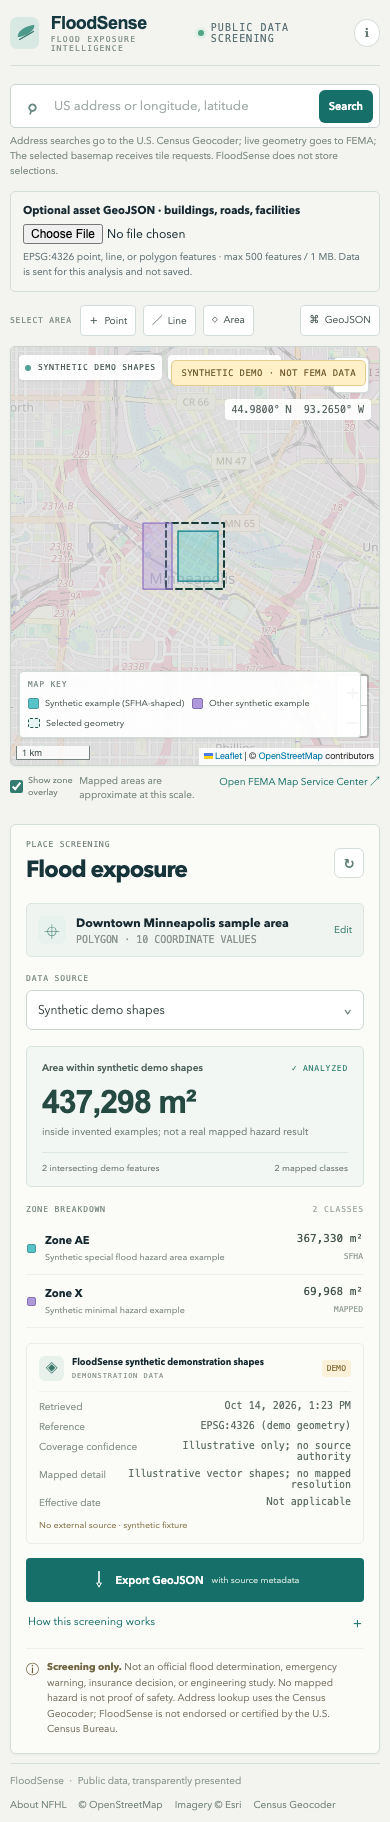
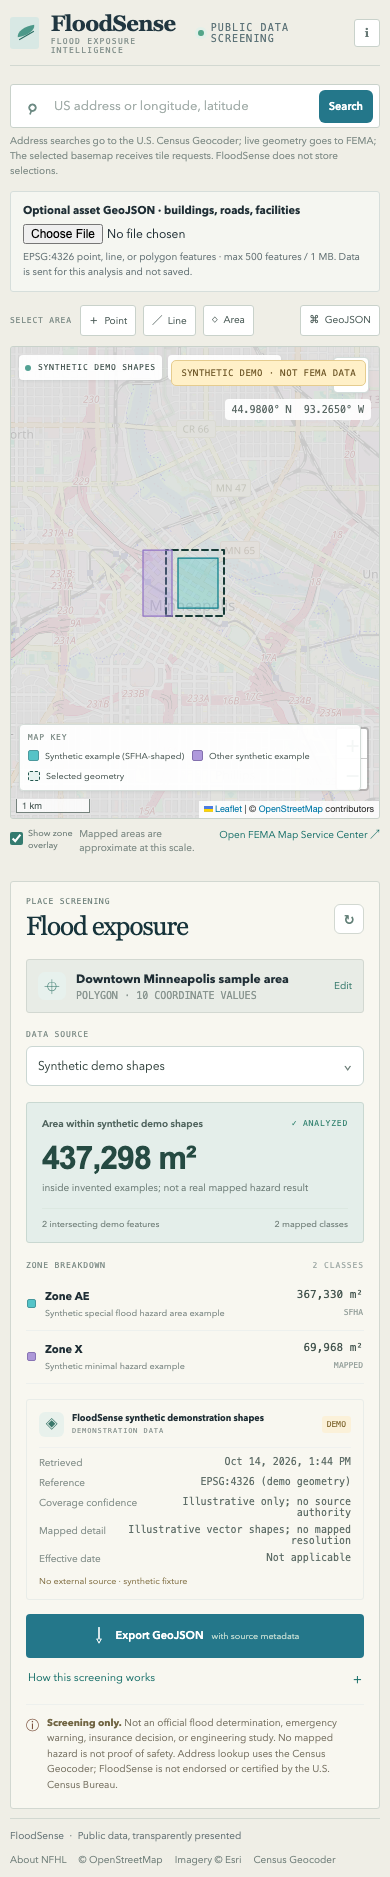
Refine FloodSense civic atlas interface

diff --git a/src/style.css b/src/style.css
@@ -1184,3 +1184,27 @@ body{background:#f3f4ef;color:#182b33;font-size:14px}
 @media(max-width:520px){.app-shell{padding:0 10px}.analysis-panel{padding:15px}.map-wrap{min-height:420px}.legend span{font-size:9px}.search-box{height:44px}.map-coordinates{top:52px;bottom:auto;right:8px}}
 .map-shell .leaflet-tile-pane{filter:none}
 .synthetic-banner{pointer-events:none}
+
+/* Civic atlas direction: mineral paper, waterline blue, and readable source evidence. */
+:root{color:#202f36;background:#efeee6;--ink:#202f36;--muted:#69777a;--line:#d2d8d1;--green:#24778a;--deep:#1b3d48;--mint:#e2eeeb;--gold:#b55e3d;--surface:#f8f7f0}
+body{background:#efeee6;color:#202f36}
+.app-shell{background:#efeee6}
+.topbar{background:#efeee6;border-color:#d2d8d1}
+.brand{font-family:Georgia,"Times New Roman",serif;font-size:22px;font-weight:600;color:#203640}
+.brand-mark{background:#d8e8e4;color:#1d6976;border-radius:3px}
+.workspace{grid-template-columns:minmax(0,1fr) minmax(340px,370px);gap:18px}
+.analysis-panel{background:#f8f7f0;border-color:#d2d8d1;border-radius:3px;box-shadow:none}
+.panel-heading h1{font-family:Georgia,"Times New Roman",serif;font-size:26px;font-weight:500}
+.map-wrap{border-color:#c9d2cb;border-radius:3px;box-shadow:none}
+.search-box,.asset-upload,.location-card,.summary-card,.source-card{border-radius:3px}
+.search-box,.tool,.icon-button{border-color:#c9d2cb;border-radius:3px}
+.search-box button,.finish-button,.small-primary,.export-button{background:#24778a}
+.tool.active{background:#dcebe8;border-color:#78a9ad;color:#185f6c}
+.location-card{background:#e8ece6;border-color:#d2d8d1}
+.summary-card{background:#e4eeea;border-color:#c9d8d1}
+.disclaimer{color:#7c523e}
+.asset-results{border-color:#e0c2ab;background:#f4e9df}
+.asset-counts strong{color:#9d4f32}
+.footer{color:#69777a}
+@media(max-width:1100px){.workspace{grid-template-columns:minmax(0,1fr) 340px}}
+@media(max-width:850px){.workspace{grid-template-columns:minmax(0,1fr)}.map-column,.analysis-panel{width:100%;min-width:0}.map-wrap{min-height:56vh}}

diff --git a/test/e2e/workflow.spec.js b/test/e2e/workflow.spec.js
@@ -92,5 +92,9 @@ test('first visit is a labeled working example and fits a phone screen', async (
   await expect(page.getByText('SYNTHETIC DEMO · NOT FEMA DATA')).toBeVisible();
   await expect(page.getByText('Area within synthetic demo shapes')).toBeVisible();
   expect(await page.evaluate(() => document.documentElement.scrollWidth)).toBeLessThanOrEqual(390);
+  await page.waitForFunction(
+    () => [...document.querySelectorAll('.leaflet-tile')].filter((tile) => tile.complete && tile.naturalWidth > 0).length >= 5,
+    { timeout: 12000 }
+  );
   await page.screenshot({ path: 'docs/screenshots/mobile.png', fullPage: true });
 });
